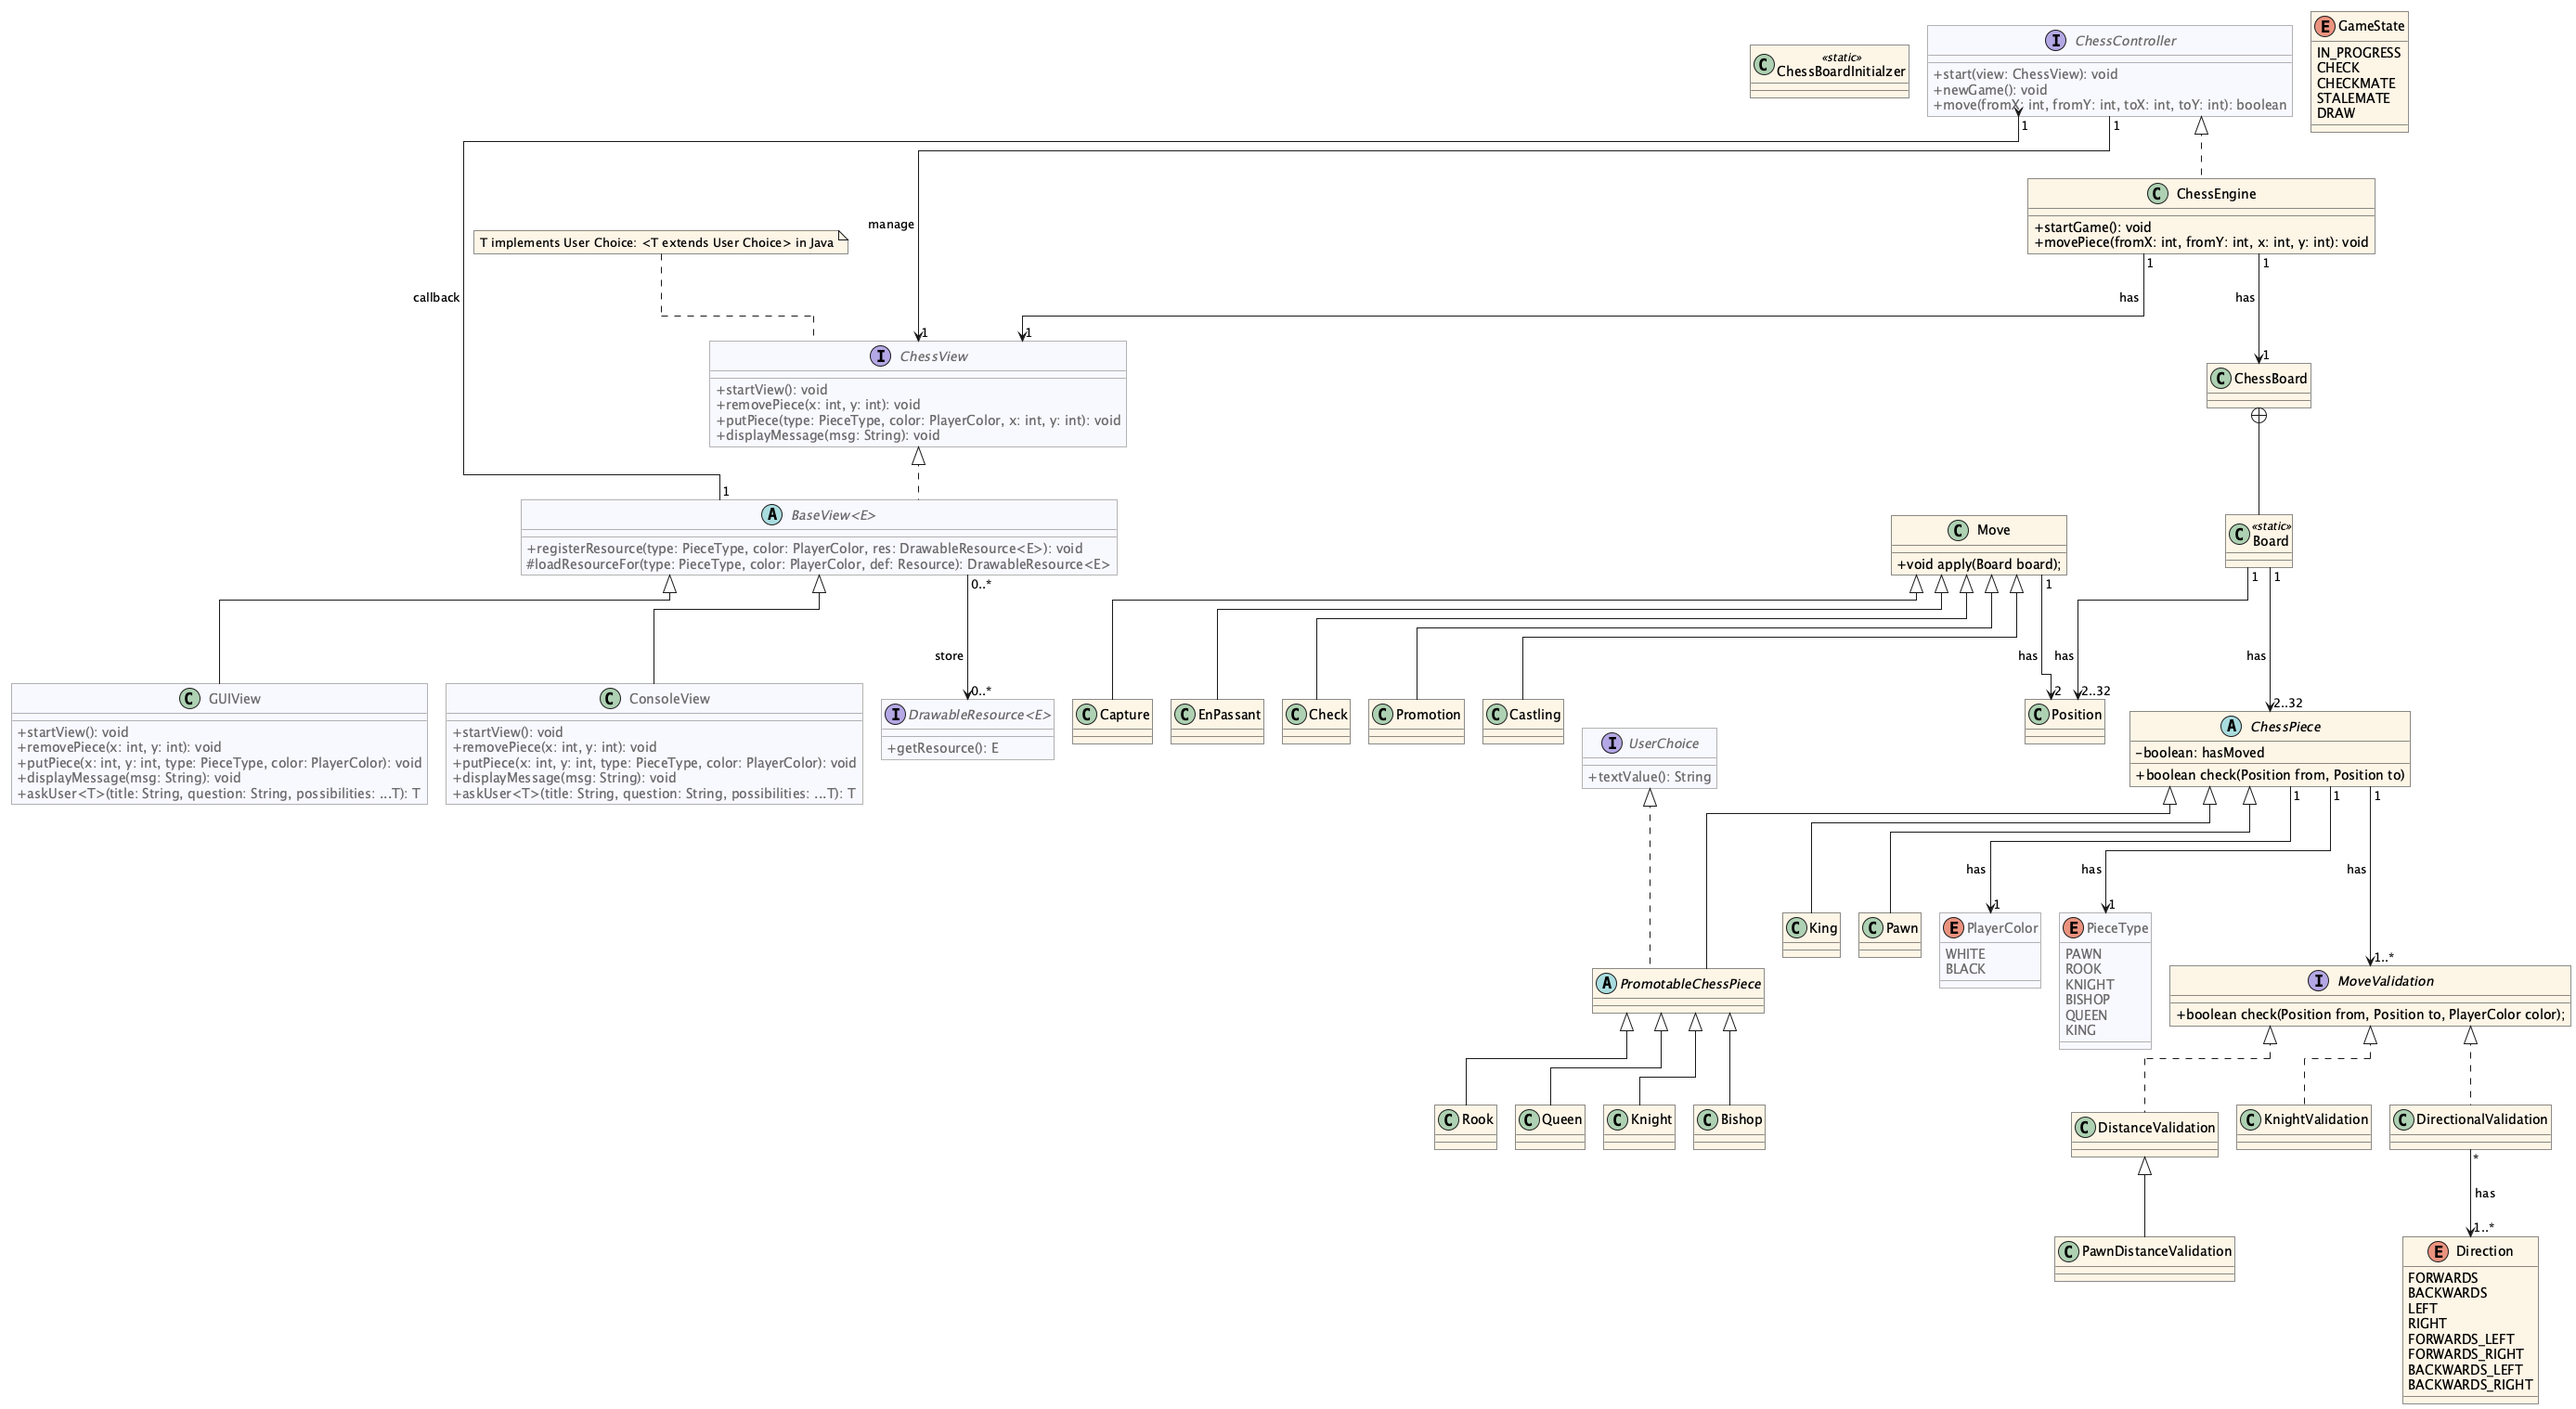
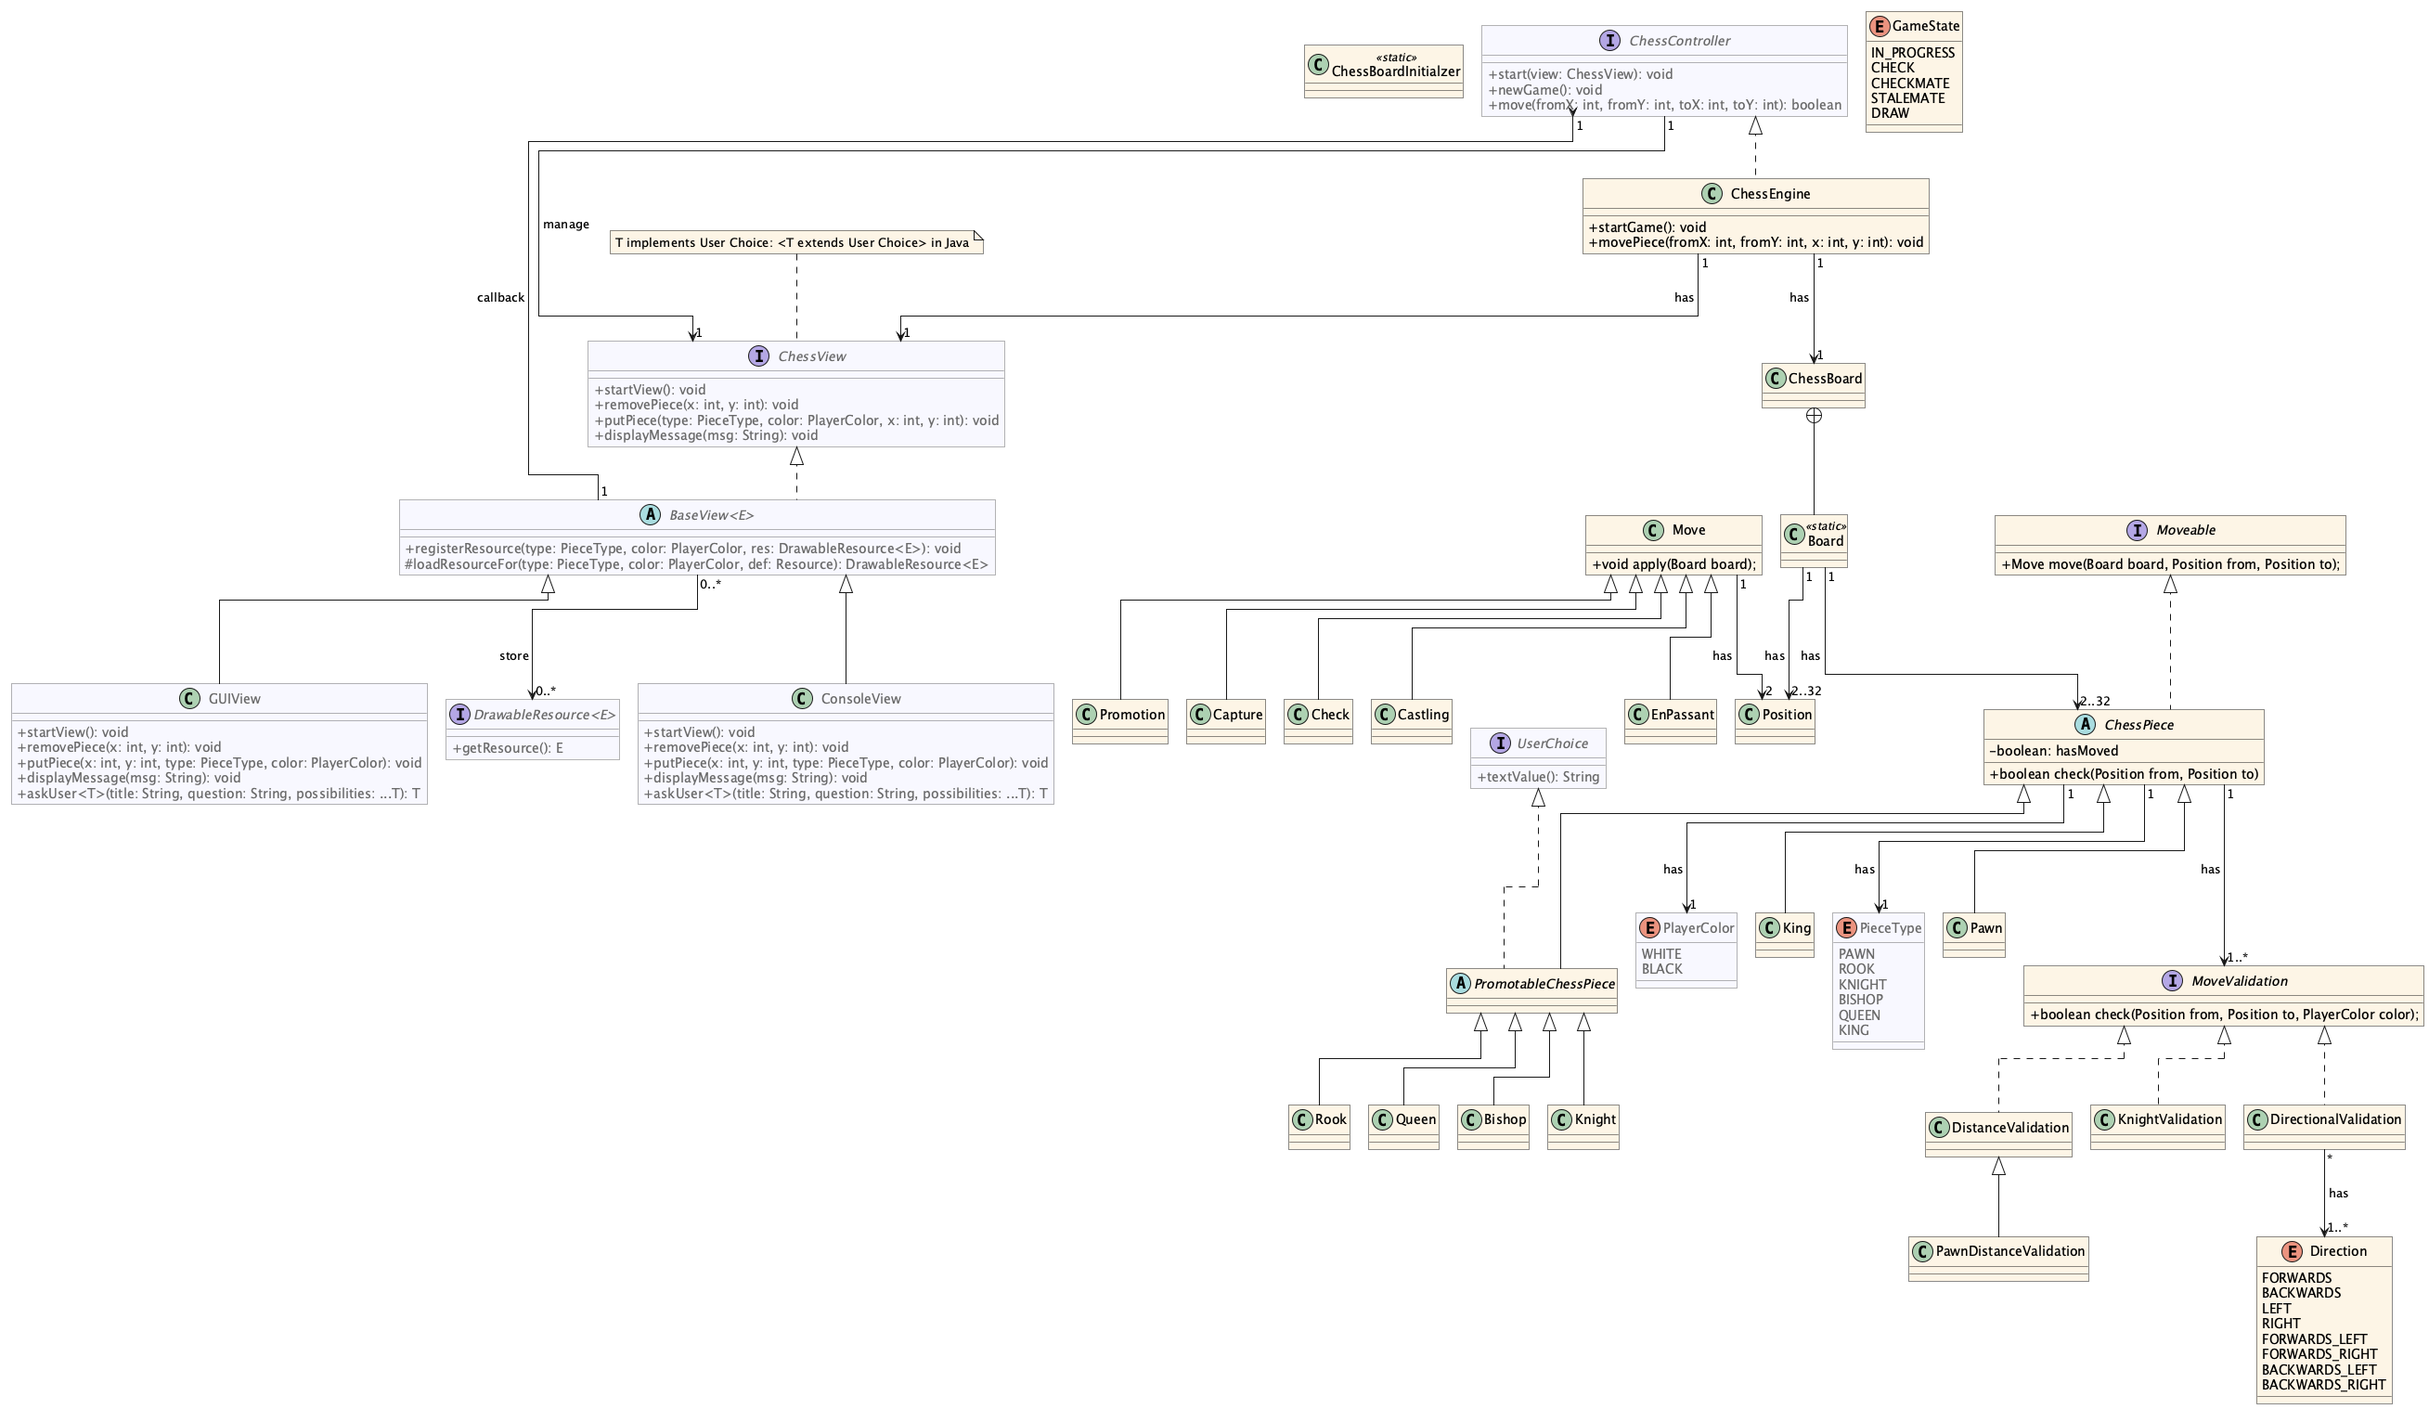
Refactor MoveValidation + ChessPiece

diff --git a/chess/engine/piece/ChessPiece.java b/chess/engine/piece/ChessPiece.java
@@ -2,11 +2,15 @@ package chess.engine.piece;
 
 import chess.PieceType;
 import chess.PlayerColor;
+import chess.engine.ChessBoard;
+import chess.engine.move.Capture;
+import chess.engine.move.Move;
+import chess.engine.move.Moveable;
 import chess.engine.validation.MoveValidation;
 
 import java.util.List;
 
-public abstract class ChessPiece {
+public abstract class ChessPiece implements Moveable {
     protected final PieceType type;
     private final PlayerColor color;
     private final List<MoveValidation> validationList;
@@ -34,12 +38,20 @@ public abstract class ChessPiece {
         return hasMoved;
     }
 
-    public boolean check(Position from, Position to) {
+    public Move move(ChessBoard.Board board, Position from, Position to) {
+        if (!from.isValid() || !to.isValid() || (board.containsKey(to) && board.get(to).getColor() == color)) {
+            return null;
+        }
+        // Check if legal move
         for (MoveValidation val : validationList) {
-            if (!val.check(from, to, this)) {
-                return false;
+            if (!val.check(from, to, board.get(from))) {
+                return null;
             }
         }
-        return true;
+        if (!board.containsKey(to)) {
+            return new Move(from, to);
+        } else {
+            return new Capture(from, to);
+        }
     }
 }

diff --git a/chess/engine/piece/Pawn.java b/chess/engine/piece/Pawn.java
@@ -2,6 +2,8 @@ package chess.engine.piece;
 
 import chess.PieceType;
 import chess.PlayerColor;
+import chess.engine.ChessBoard;
+import chess.engine.move.Move;
 import chess.engine.validation.Direction;
 import chess.engine.validation.DirectionalValidation;
 import chess.engine.validation.PawnDistanceValidation;
@@ -11,6 +13,16 @@ import java.util.List;
 public class Pawn extends ChessPiece {
 
     public Pawn(PlayerColor color) {
-        super(PieceType.PAWN, color, List.of(new DirectionalValidation(List.of(Direction.FORWARDS)), new PawnDistanceValidation()));
+        super(PieceType.PAWN, color, List.of(new DirectionalValidation(List.of(Direction.FORWARDS, Direction.FORWARDS_LEFT, Direction.FORWARDS_RIGHT)), new PawnDistanceValidation()));
+    }
+
+    @Override
+    public Move move(ChessBoard.Board board, Position from, Position to) {
+        Move move = super.move(board, from, to);
+        if (move == null) {
+            return null;
+        }
+        // TODO: Check for diagonal captures && en passant capture
+        return move;
     }
 }

diff --git a/chess/engine/move/Capture.java b/chess/engine/move/Capture.java
@@ -1,26 +1,22 @@
 package chess.engine.move;
 
-import chess.ChessView;
 import chess.engine.ChessBoard;
 import chess.engine.piece.ChessPiece;
 import chess.engine.piece.Position;
-import chess.engine.validation.Direction;
 
-import java.util.Map;
+public class Capture extends Move {
 
-public class Move {
-    protected final Position from;
-    protected final Position to;
-
-    public Move(Position from, Position to) {
-        this.from = from;
-        this.to = to;
+    public Capture(Position from, Position to) {
+        super(from, to);
     }
 
+    @Override
     public void apply(ChessBoard.Board board) {
         assert board.containsKey(from);
+        assert board.containsKey(to);
         ChessPiece p = board.get(from);
         board.remove(from);
+        board.remove(to);
         p.setHasMoved(true);
         board.put(to, p);
     }

diff --git a/chess/engine/ChessBoard.java b/chess/engine/ChessBoard.java
@@ -71,10 +71,8 @@ public class ChessBoard {
         if (board.containsKey(to) && board.get(to).getColor() == piece.getColor()) return null;
 
         // Check if piece can move to this position
-        if (!piece.check(from, to)) return null;
-
         // TODO: Check if along the path of piece if movement is allowed
         // TODO: Create different movement types based on the action (Capture, Promotion, etc.)
-        return new Move(from, to);
+        return piece.move(board, from, to);
     }
 }

diff --git a/chess/engine/move/Moveable.java b/chess/engine/move/Moveable.java
@@ -1,0 +1,8 @@
+package chess.engine.move;
+
+import chess.engine.ChessBoard;
+import chess.engine.piece.Position;
+
+public interface Moveable {
+    Move move(ChessBoard.Board board, Position from, Position to);
+}
